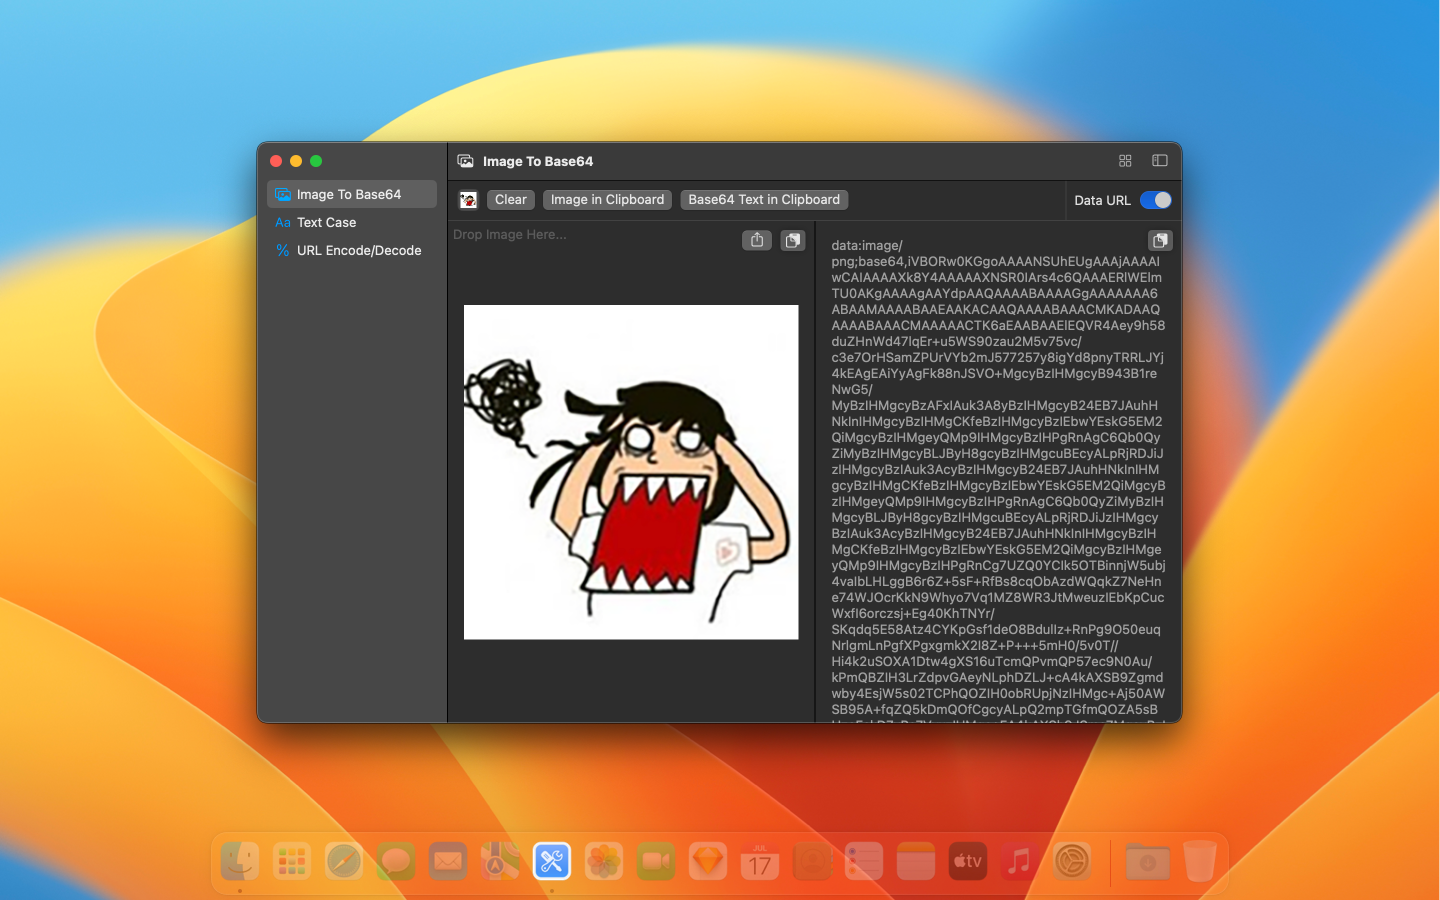
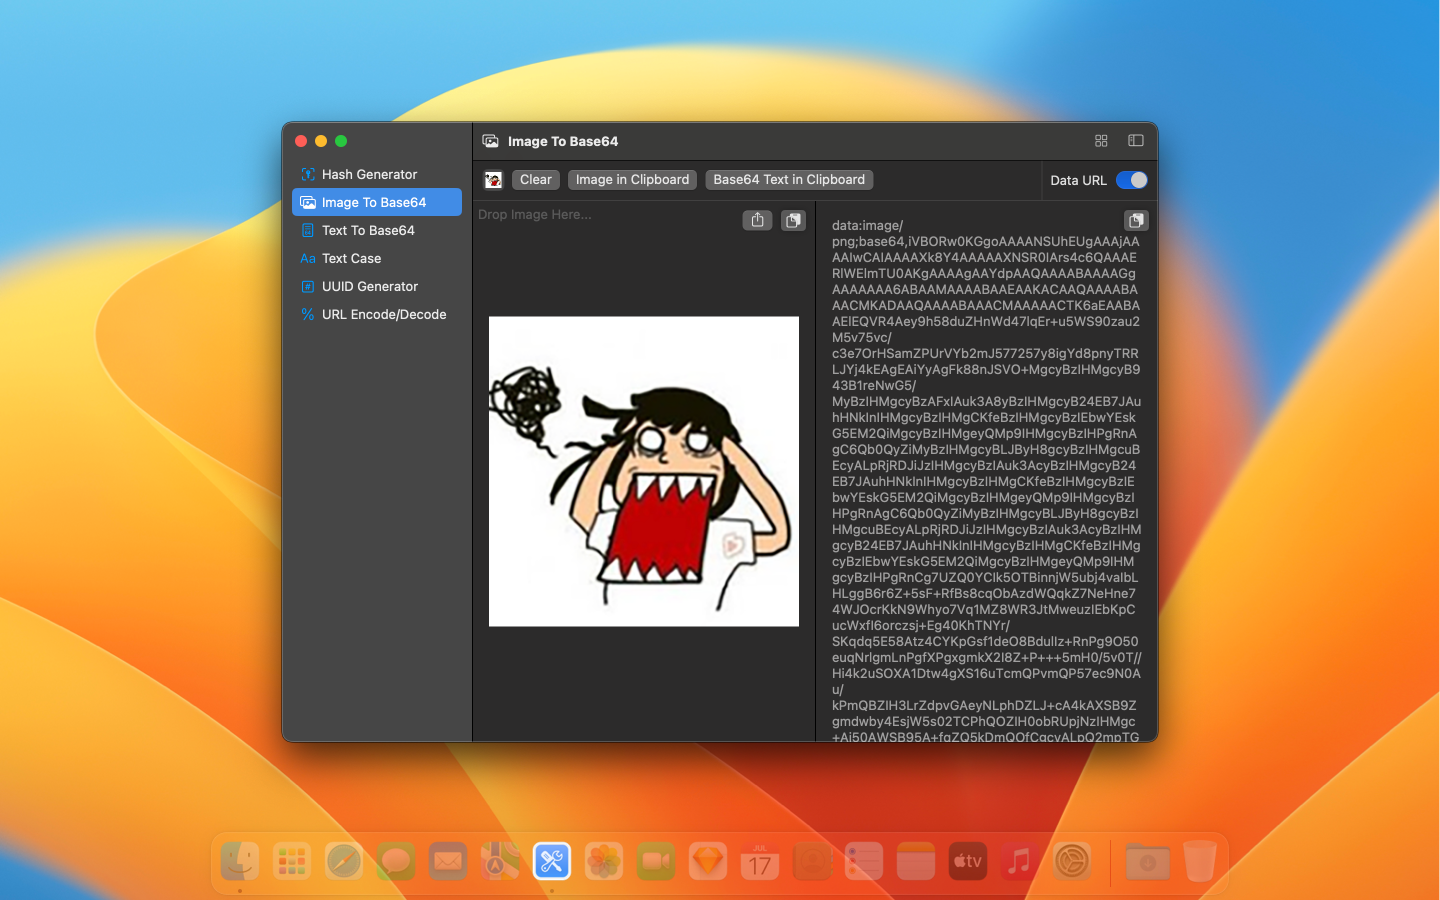
feat: update devhub screenshots.

Changed region(s): [[0.1562, 0.1244, 0.8438, 0.8711]]

diff --git a/src/app/devhub/index.tsx b/src/app/devhub/index.tsx
@@ -6,6 +6,9 @@ import devhub from './devhub.png'
 import screenshots1 from './screenshots-1.png'
 import screenshots2 from './screenshots-2.png'
 import screenshots3 from './screenshots-3.png'
+import screenshots4 from './screenshots-4.png'
+import screenshots5 from './screenshots-5.png'
+import screenshots6 from './screenshots-6.png'
 
 export const Component: FC<PropsWithChildren> = () => {
   const { t } = useTranslation('devhub');
@@ -37,6 +40,9 @@ export const Component: FC<PropsWithChildren> = () => {
       <p>{t('info1')}</p>
       <img src={screenshots3} />
       <p>{t('info2')}</p>
+      <img src={screenshots4} />
+      <img src={screenshots5} />
+      <img src={screenshots6} />
     </Header>
   );
 }
